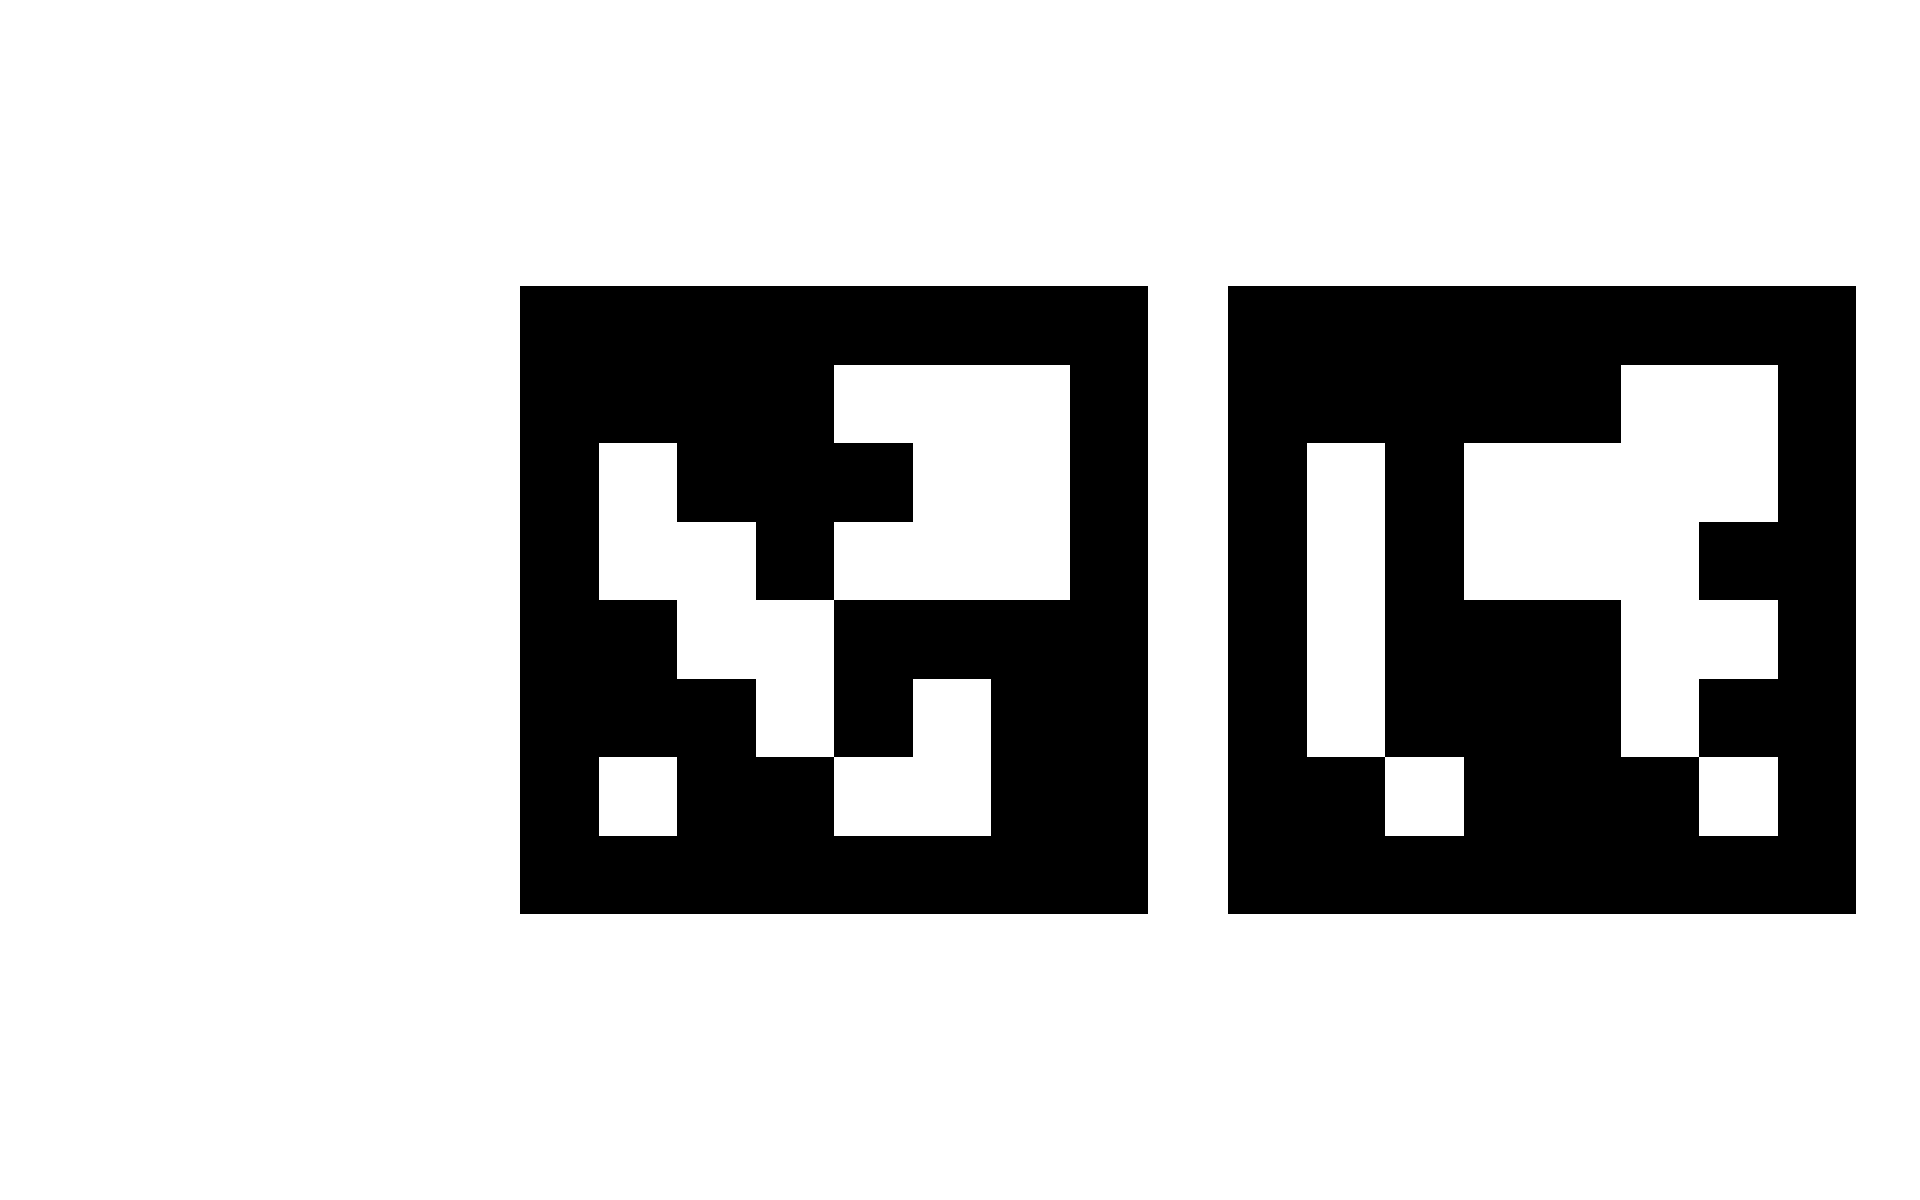
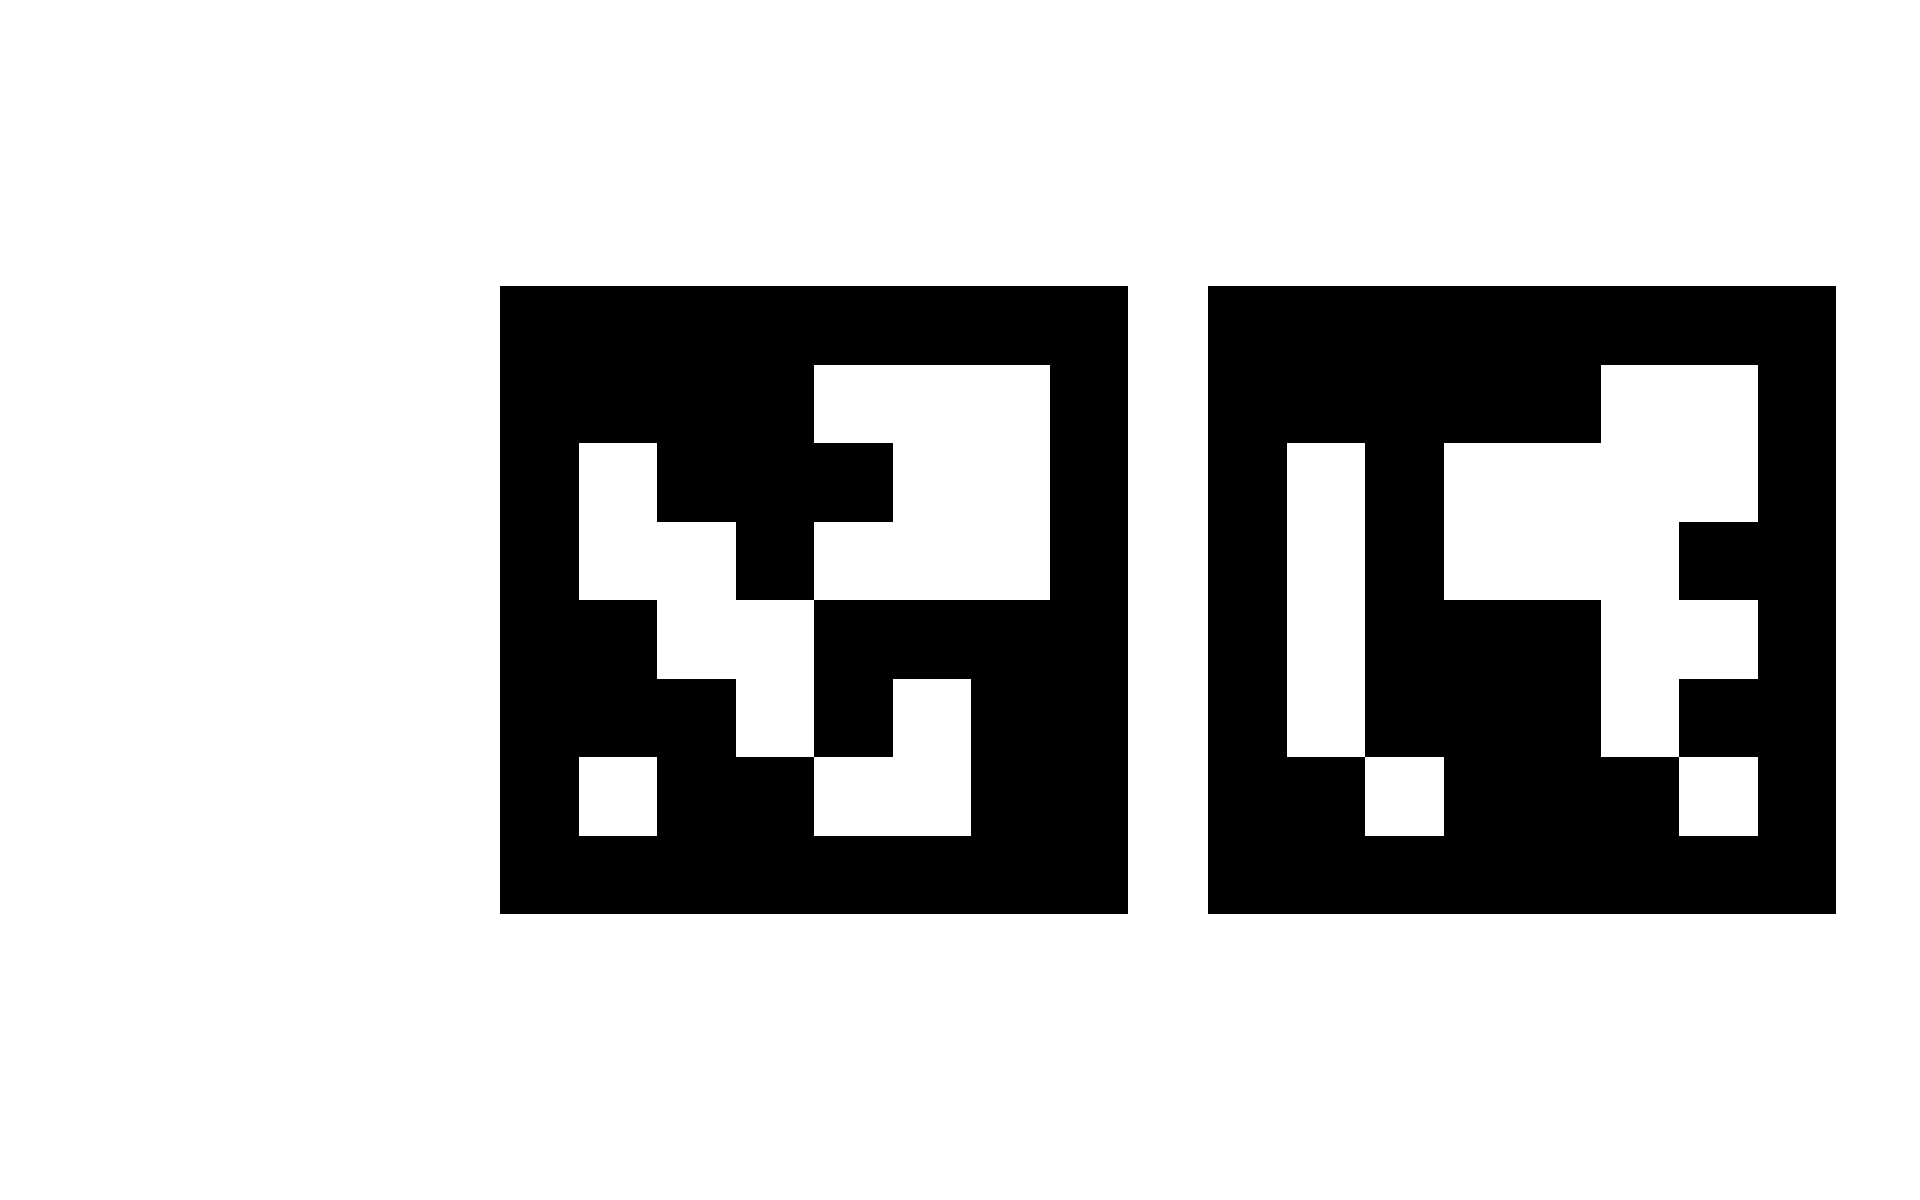
two-marker board v3: shift left so the right quiet zone is >= 1 module

diff --git a/scan3d/tools/board2_markers.py b/scan3d/tools/board2_markers.py
@@ -1,9 +1,9 @@
 # Two big ArUco markers (laptop 1920x1200): detection + pose for the calibration pages (2026-10-24, user: "큰마커 2개").
-# Layout: DICT_6X6_250 ids 0 (left) and 1 (right), side 628 px, gap 80 px, top-left at (520,286) and (1228,286).
+# Layout: DICT_6X6_250 ids 0 (left) and 1 (right), side 628 px, gap 80 px, top-left at (500,286) and (1208,286).
 # Physical: 628 px x 0.1570 mm/px (Lenovo 14" 1920x1200 panel, spec estimate) = 98.6 mm at 1:1 pixels.
 import cv2, numpy as np, math
 
-SIDE_PX, GAP_PX, X0, Y0 = 628, 80, 520, 286   # max size with ~1-module quiet zones; left 440 px = live view
+SIDE_PX, GAP_PX, X0, Y0 = 628, 80, 500, 286   # max size with ~1-module quiet zones; left 440 px = live view
 MM_PER_PX = 0.1570
 D = cv2.aruco.getPredefinedDictionary(cv2.aruco.DICT_6X6_250)
 
